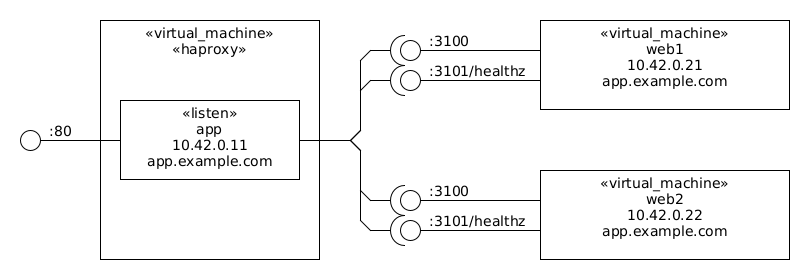
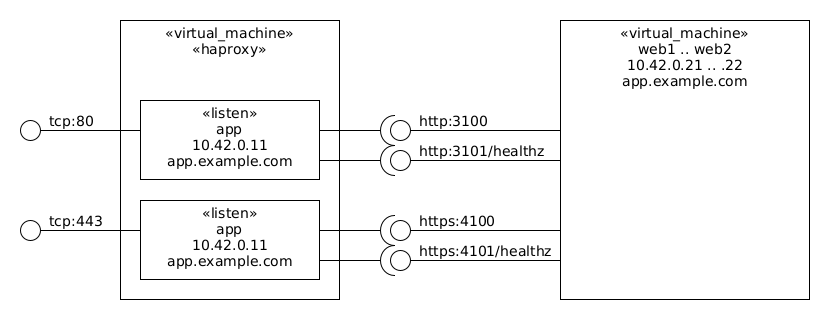
also use https health checks

diff --git a/app/main.js b/app/main.js
@@ -1,5 +1,7 @@
 const os = require("os");
+const fs = require("fs");
 const http = require("http");
+const https = require("https");
 
 function createRequestListener(metadata) {
     return (request, response) => {
@@ -17,18 +19,29 @@ Request URL: ${request.url}
     };
 }
 
-function main(metadata, port, healthzPort) {
+function main(http, options, metadata, port, healthzPort) {
     const ports = [port];
     if (port != healthzPort) {
         ports.push(healthzPort);
     }
     ports.forEach((port) => {
-        const server = http.createServer(createRequestListener(metadata));
+        const server = http.createServer(options, createRequestListener(metadata));
         server.listen(port);
     });
 }
 
+const fqdn = process.argv[2];
 const metadata = {
     hostname: os.hostname(),
 };
-main(metadata, process.argv[2], process.argv[3]);
+const httpsOptions = {
+    // set the server certificate.
+    key: fs.readFileSync(`${fqdn}-key.pem`),
+    cert: fs.readFileSync(`${fqdn}-crt.pem`),
+    // set the client certificate requirements.
+    ca: fs.readFileSync('example-ca-crt.pem'),
+    requestCert: false,
+    rejectUnauthorized: false,
+}
+main(http, {}, metadata, process.argv[3], process.argv[4]);
+main(https, httpsOptions, metadata, process.argv[5], process.argv[6]);

diff --git a/README.md b/README.md
@@ -31,4 +31,4 @@ Or access the [statists web page](http://10.42.0.10:9000).
 
  * [Emulating Active/Passing Application Clustering with HAProxy](https://www.haproxy.com/blog/emulating-activepassing-application-clustering-with-haproxy/)
  * [HAProxy Documentation](http://www.haproxy.org/#docs)
- * [HAProxy 1.8 Configuration Reference](http://cbonte.github.io/haproxy-dconv/1.8/configuration.html)
+ * [HAProxy 2.4 Configuration Reference](https://docs.haproxy.org/2.4/configuration.html)
